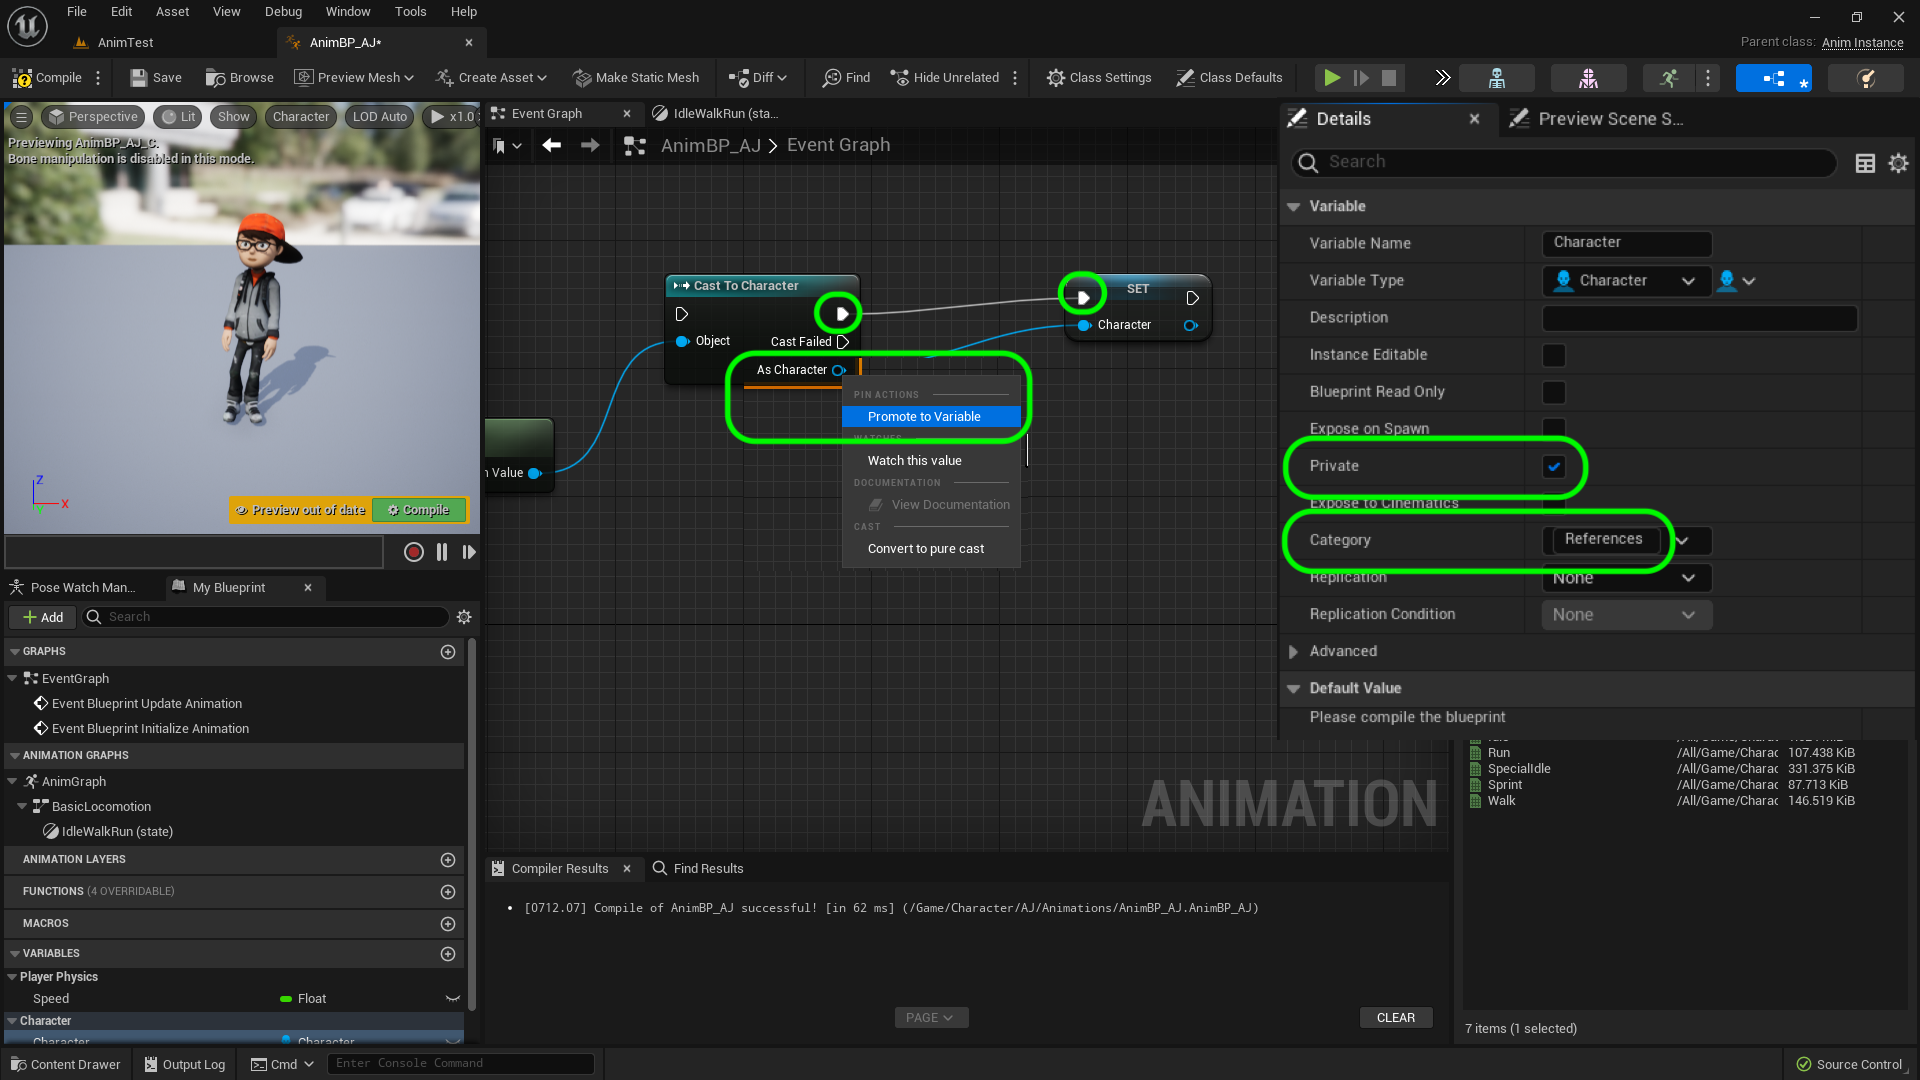
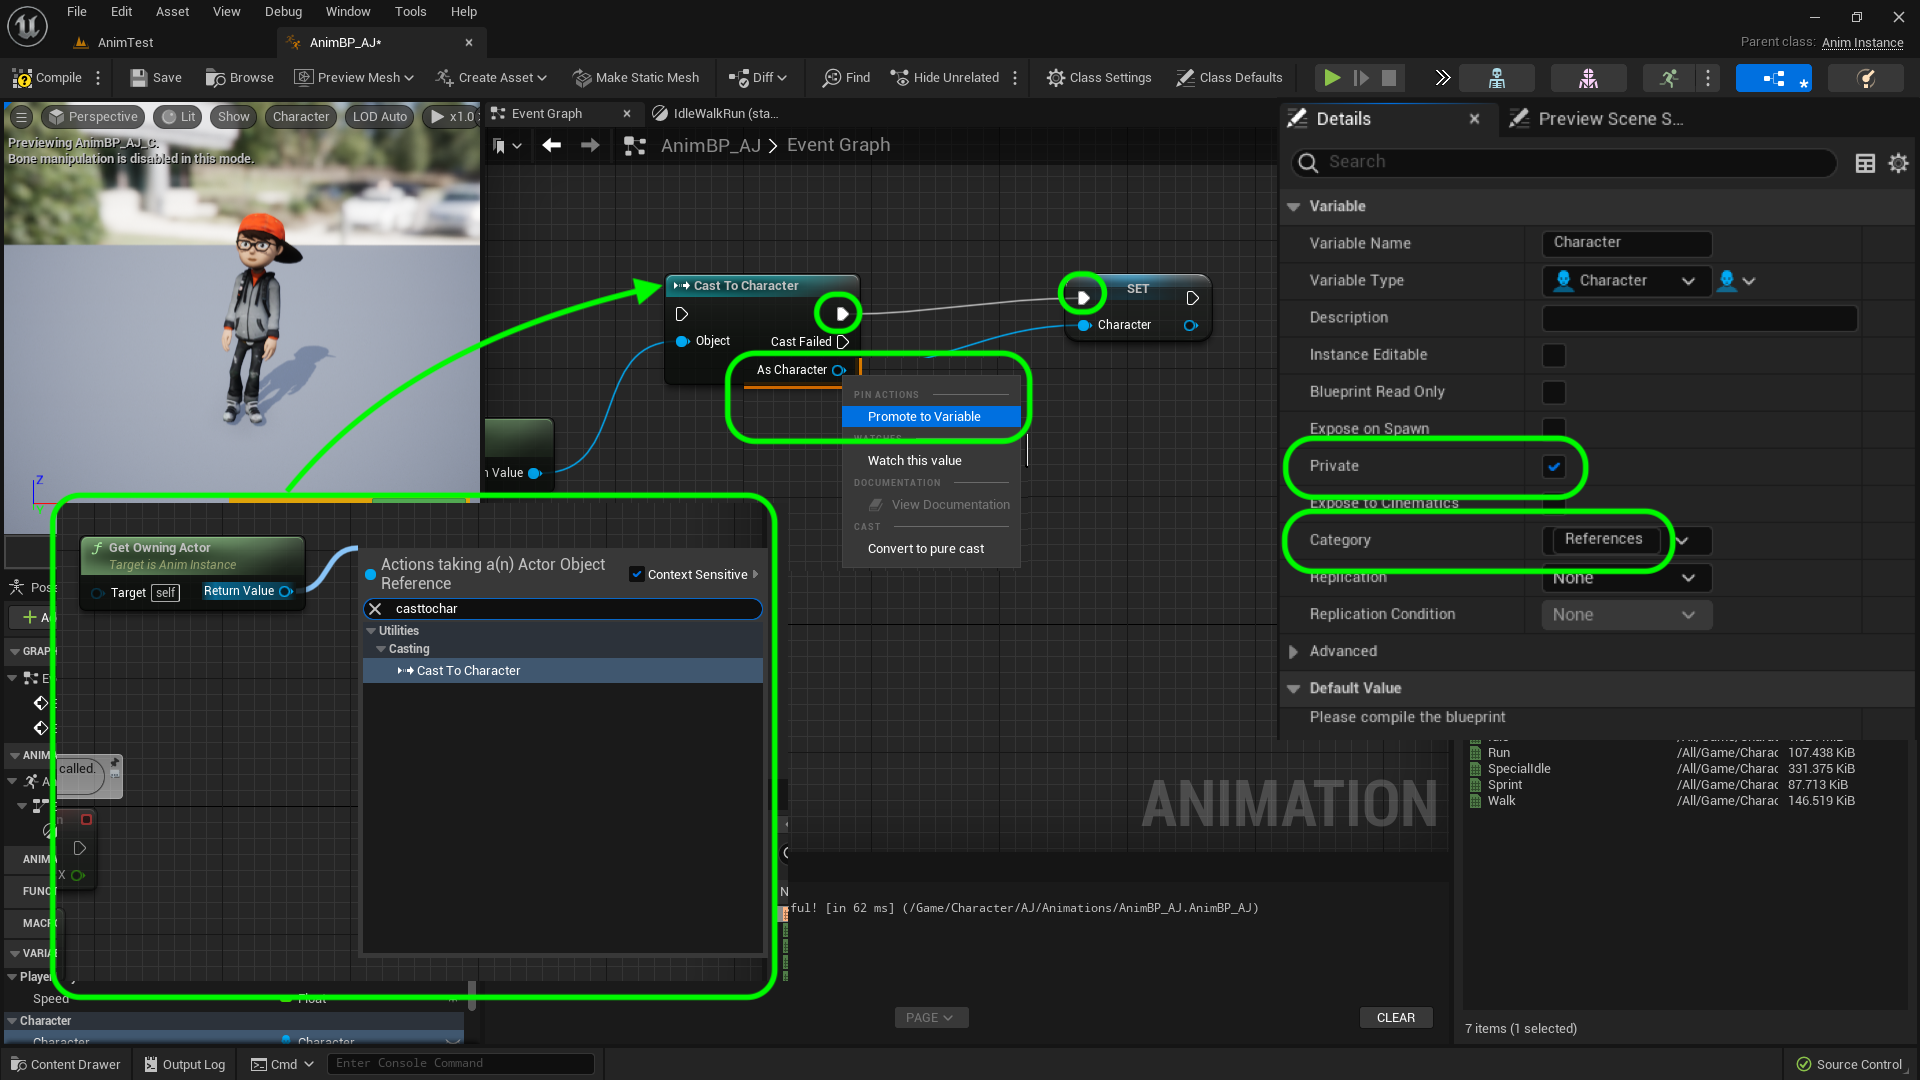
updating animtaion to ue5

diff --git a/anim-bp/README.md b/anim-bp/README.md
@@ -131,14 +131,21 @@ Now there is no begin play in animation blueprints but there is a **Event Bluepr
 
 ##### `Step 15.`\|`ITA`| :large_blue_diamond: :small_orange_diamond: 
 
-![name variable speed and make private](images/getReference.png)
+Pull off of the **Get Owning Actor** pin and select a **Cast to Character** node.  This will cast the class from **Pawn** to **Character**.  Right click on the **As Character** and select **Promote to Variable**.  Connect the execution pin from **Cast to Character** to **Set Character** node.
 
-
+![Get owning actor cast to character and set character as promoted var](images/getReference.png)
 
 
 ![](../images/line2.png)
 
 ##### `Step 16.`\|`ITA`| :large_blue_diamond: :small_orange_diamond:   :small_blue_diamond: 
+
+![Get owning actor cast to character and set character as promoted var](images/finishCharRef.png)
+
+
+![](../images/line2.png)
+
+##### `Step 17.`\|`ITA`| :large_blue_diamond: :small_orange_diamond: :small_blue_diamond: :small_blue_diamond:
 
 We need to get access to the **Speed** of the player. We do this in the **Event Graph** of the animation blueprint. *Click on* the **Event Graph** tab (or *double click* it from the Graphs menu on the left) and you should see two *greyed* out nodes. If you don't see the **Try Get Pawn Owner** then add it. *Drag off* of the **Return Value** pin from the **Try Get Pawn Owner** node and selecdt a **? Is Valid** node. We want to make sure that this pawn is active in game.
 
@@ -147,10 +154,6 @@ We need to get access to the **Speed** of the player. We do this in the **Event 
 *Drag off* of the **Return Value** from the **Try Get Pawn Owner** node again and select **Get Velocity** to get the velocity vector of the player pawn. Connect the execution pin from **Event Blueprint Update Animation** to **? Is Valid** nodes.
 
 ![add get velocity node](images/GetVelocityFromPawn.jpg)
-
-![](../images/line2.png)
-
-##### `Step 17.`\|`ITA`| :large_blue_diamond: :small_orange_diamond: :small_blue_diamond: :small_blue_diamond:
 
 Now a **Velocity** (or any vector for that matter) has a *direction* and a *magnitude*. All we care about here is the *magnitude*. *Drag off* of the **Return Value** pin from the **Get Velocity** node and select **Vector Length** (I typed in Magnitude in the search window and it still points to this node!). This returns a float with the length of the vector (magnitude).
 
